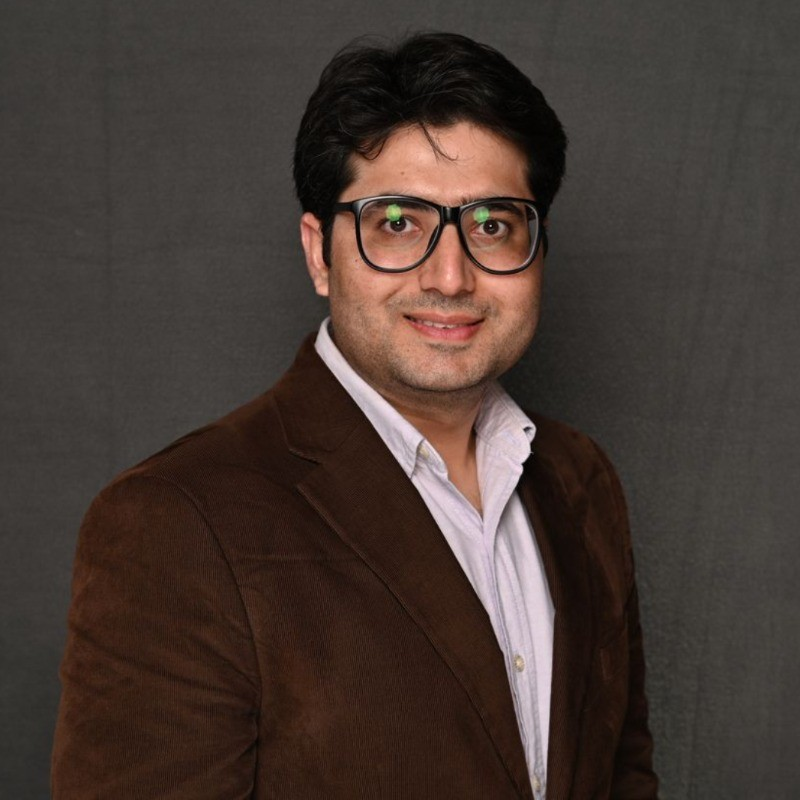
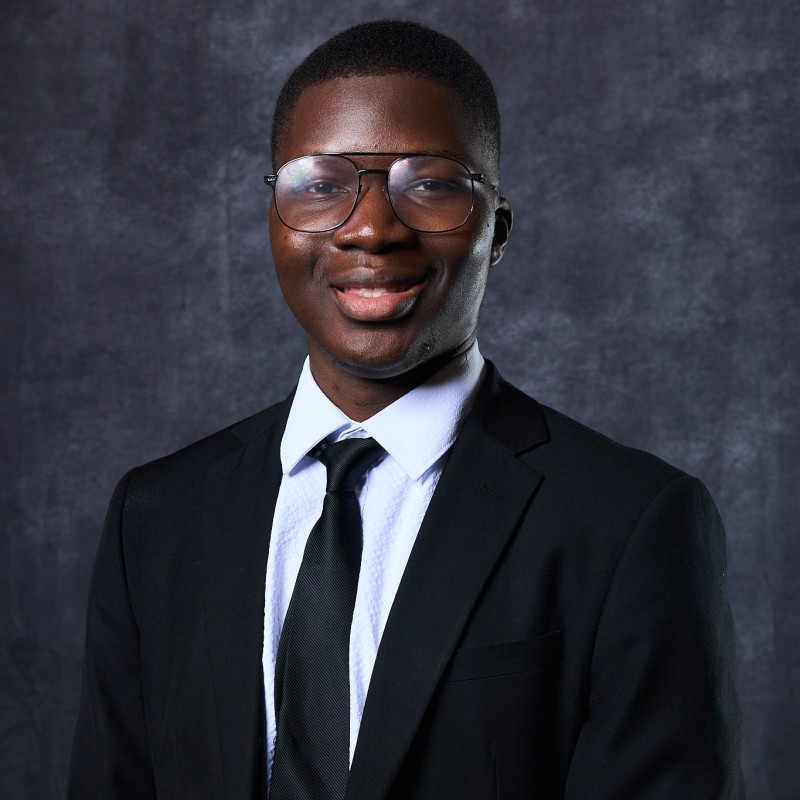
style: seperate list and finalize responsive layout

diff --git a/index.html b/index.html
@@ -101,17 +101,14 @@
         </div>
     </section>
 
-    <section id="awards" class="awards">
-        <h2>Awards &amp; Certifications</h2>
         <ul class="awards-list">
-            <li>JPMorgan Code for Good &mdash; 1st Place</li>
-            <li>Google &times; MLH AI Roadshow &mdash; Top 3 Nationally</li>
-            <li>Texas Tech HackWesTX &mdash; 2nd Place</li>
-            <li><a href="https://www.linkedin.com/posts/ohinoyi-moiza_ycombinator-startupschool2026-selt-ugcPost-7454848469493764099-iwls" target="_blank" class="highlight-link">YC Startup School S26</a> &mdash; Top 5% (1 of 6,000 selected from 30,000+ applicants)</li>
+            <li>JPMorgan Code for Good &middot; 1st Place</li>
+            <li>Google &times; MLH AI Roadshow &middot; Top 3 Nationally</li>
+            <li>Texas Tech HackWesTX &middot; 2nd Place</li>
+            <li><a href="https://www.linkedin.com/posts/ohinoyi-moiza_ycombinator-startupschool2026-selt-ugcPost-7454848469493764099-iwls" target="_blank" class="highlight-link">YC Startup School S26</a> &middot; Top 5% (1 of 6,000 selected from 30,000+ applicants)</li>
             <li>Google Software Engineering Program</li>
-            <li>Salesforce Futureforce Summit &mdash; 1 of 100 selected</li>
+            <li>Salesforce Futureforce Summit &middot; 1 of 100 selected</li>
         </ul>
-    </section>
 
     <section id="skills" class="skills">
         <h2>Skills</h2>

diff --git a/css/style.css b/css/style.css
@@ -362,3 +362,15 @@ footer#contact p {
     justify-content: center;
     gap: 1rem;
 }
+
+@media (max-width: 768px) {
+    nav {
+        flex-direction: column;
+        gap: 1rem;
+    }
+    .nav-links {
+        flex-wrap: wrap;
+        justify-content: center;
+        gap: 1rem;
+    }
+}
